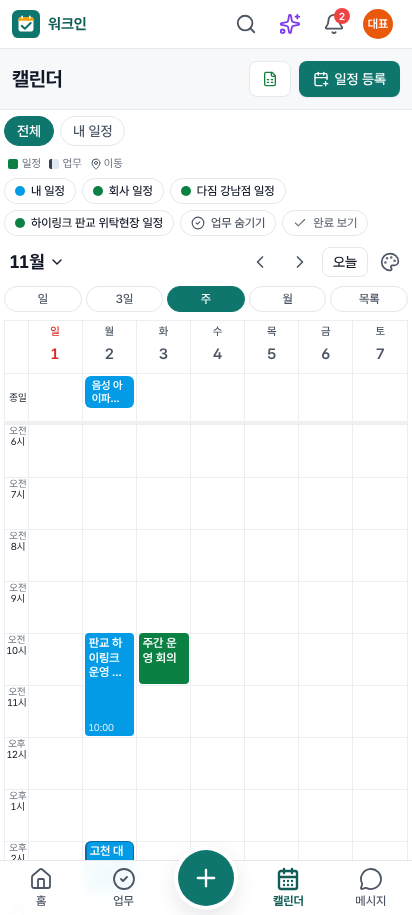
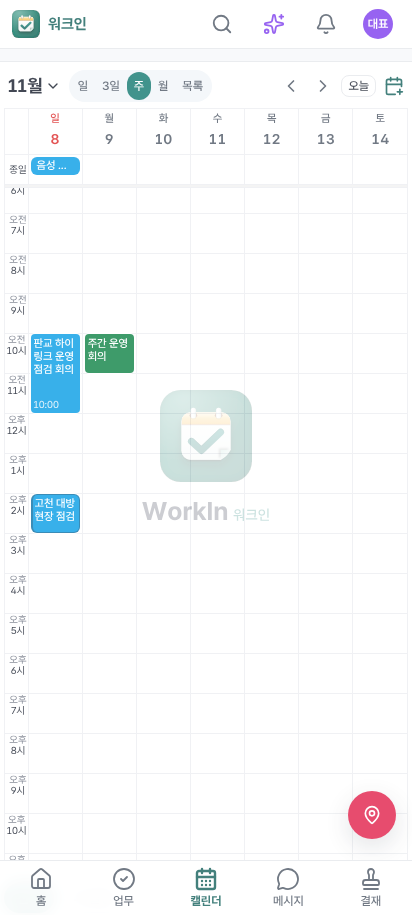
[배포확인요청][로컬요청] 148차: #592 ② 휴대폰 캘린더 주 보기 구글 수준 밀도 + 견적서 공급자 긴 주소 두 줄
- 시간 칸 주 40/3일 48/일 64px → 390×844 한 화면 14.8시간, 블록 11px 중간 굵기·줄 수 블록 높이만큼
- 좁은 블록 앞머리 [태그] 떼고 내용부터(부재 종류 유지, 전체 제목은 title), 종일 줄 휴대폰 기본 켬(2줄 + '+n개' → 그날 목록)
- 미팅 단추 둥근 48px·아래로 밀면 숨김, 휴대폰 머리줄 한 줄(월▾·보기 전환·‹›·오늘·+), 엑셀·색 설정은 칩 줄
- 시간 칸 높이를 달력 자리부터 재서 하단 탭에 가려지지 않게
- 견적서 공급자 주소: '…' 대신 띄어쓰기 자리에서 두 줄(로컬 10/25 15:45)
- 시험: E2E cal592(새)·v1441 갱신, 캘린더 E2E 12/12, API quotes 5/5. 마이그레이션 없음
- #592 ① 가져오기는 대표 취소(#604)로 하지 않음

Claude-Session: https://claude.ai/code/session_016D6QaBbBuSZXAeHKp3DqaZ

diff --git a/src/app/(app)/calendar/page.tsx b/src/app/(app)/calendar/page.tsx
@@ -14,7 +14,7 @@ import dynamic from 'next/dynamic';
 import type { EventDropArg, DatesSetArg, EventClickArg } from '@fullcalendar/core';
 import { api, broadcastRefresh, useApi } from '@/components/client';
 import { useSession } from '@/components/session';
-import { Bell, CalendarPlus, Check, ChevronDown, FileSpreadsheet, ChevronLeft, ChevronRight, CircleCheck, ClipboardList, Clock, ExternalLink, ListChecks, MapPin, Pencil, Plus, Timer, Trash2, Users, Video, X, Palette } from 'lucide-react';
+import { Bell, CalendarPlus, Check, ChevronDown, FileSpreadsheet, ChevronLeft, ChevronRight, CircleCheck, ClipboardList, Clock, ExternalLink, ListChecks, MapPin, Pencil, Plus, Timer, Trash2, Users, Video, X } from 'lucide-react';
 import { Avatar, AvatarStack, avatarColor, initials, Button, DueChip, ErrorBox, Field, Modal, StatusBadge, cx, fmtDateTime, fmtTime, fmtTimeRange, inputCls, toast } from '@/components/ui';
 import { TaskDetail } from '@/components/TaskDetail';
 import { useBackClose, useSheetBack } from '@/components/backClose';
@@ -83,8 +83,10 @@ function CalendarPage() {
   const [showDone, setShowDone] = useState<boolean>(() => { try { return localStorage.getItem('wos_cal_done') === '1'; } catch { return false; } });
   useEffect(() => { try { localStorage.setItem('wos_cal_done', showDone ? '1' : '0'); } catch {} }, [showDone]);
   // 대표 10/22 19:47: 일·3일·주(시간 격자)에서 종일·시간 없는 업무 칸이 위를 차지해 오전 일정을 가림 → 기본 숨김, 날짜 머리 아래 '종일 n' 칩(누르면 그날 목록). 이 기기 기억
-  const [showAllDay, setShowAllDay] = useState<boolean>(() => { try { return localStorage.getItem('wos_cal_allday') === '1'; } catch { return false; } });
-  useEffect(() => { try { localStorage.setItem('wos_cal_allday', showAllDay ? '1' : '0'); } catch {} }, [showAllDay]);
+  // #592(대표 10/25 구글 주 보기 대조): 휴대폰은 종일 줄 기본 켬 — 하루 2개 + '+n개'(누르면 그날 목록)라 위를 크게 차지하지 않음. 휴대폰은 새 기억 키
+  const allDayKey = typeof window !== 'undefined' && window.innerWidth < 640 ? 'wos_cal_allday_m' : 'wos_cal_allday';
+  const [showAllDay, setShowAllDay] = useState<boolean>(() => { try { const v = localStorage.getItem(allDayKey); return v === null ? allDayKey === 'wos_cal_allday_m' : v === '1'; } catch { return allDayKey === 'wos_cal_allday_m'; } });
+  useEffect(() => { try { localStorage.setItem(allDayKey, showAllDay ? '1' : '0'); } catch {} }, [showAllDay, allDayKey]);
   const [allDaySheet, setAllDaySheet] = useState<string | null>(null);
   useBackClose(!!allDaySheet, () => setAllDaySheet(null)); // #242 2단계: 뒤로가기 = 종일 목록만 닫힘(캘린더 그대로)
   const [sidePanel, setSidePanel] = useState<boolean>(() => { try { const v = localStorage.getItem('wos_cal_unscheduled'); return v === null ? typeof window !== 'undefined' && window.innerWidth >= 1440 : v === '1'; } catch { return false; } });
@@ -169,11 +171,26 @@ function CalendarPage() {
   const calBox = useRef<HTMLDivElement>(null);
   const [calH, setCalH] = useState(640);
   useEffect(() => {
-    const fit = () => { const top = calBox.current?.getBoundingClientRect().top ?? 160; setCalH(Math.max(420, Math.round(window.innerHeight - Math.max(0, top) - (window.innerWidth < 1024 ? 76 : 24)))); };
+    // #592: 위치는 머리줄 아래 달력 자리(swipeWrap)부터 — 예전엔 머리줄 높이만큼 아래 탭 뒤로 밀려 시간 칸 끝이 가려졌음. 아래는 하단 탭 실제 높이
+    const fit = () => { const top = (swipeWrap.current ?? calBox.current)?.getBoundingClientRect().top ?? 160; const nav = window.innerWidth < 1024 ? (document.querySelector('nav[aria-label="하단 메뉴"]')?.getBoundingClientRect().height || 56) + 2 : 24;
+      setCalH(Math.max(420, Math.round(window.innerHeight - Math.max(0, top) - nav))); };
     fit(); window.addEventListener('resize', fit); return () => window.removeEventListener('resize', fit);
   }, []);
   const firstScroll = () => { const n = new Date(); const td = seoulDate(n); const inView = range && seoulDate(range.from) <= td && td < seoulDate(range.to);
     const h = inView ? Math.max(0, Number(seoulTime(n).slice(0, 2)) - 1) : 7; return `${String(h).padStart(2, '0')}:00:00`; };
+  // #592: 휴대폰 미팅 단추는 시간 칸(또는 화면)을 아래로 밀면 숨고 위로 올리면 다시 — 칸을 가리지 않게
+  const [fabHidden, setFabHidden] = useState(false);
+  useEffect(() => {
+    const last = new WeakMap<EventTarget, number>();
+    const onScroll = (e: Event) => {
+      const t = e.target, y = t === document ? window.scrollY : (t as HTMLElement | null)?.scrollTop;
+      if (!t || typeof y !== 'number') return;
+      const prev = last.get(t) ?? y; last.set(t, y);
+      if (Math.abs(y - prev) >= 4) setFabHidden(y > prev);
+    };
+    document.addEventListener('scroll', onScroll, { capture: true, passive: true });
+    return () => document.removeEventListener('scroll', onScroll, { capture: true });
+  }, []);
   function openMeeting() { const v = calRef.current?.getApi().getDate(); const d = v ? seoulDate(v) : seoulDate(new Date()); const h = nextHour(); setEditor({ draft: { date: d, start: h.start, end: h.end, title: '미팅 · ', meeting: true } }); }
   useBackClose(!!preview, () => setPreview(null));
 
@@ -242,6 +259,8 @@ function CalendarPage() {
     }
     return m;
   }, [fcEvents]);
+  // #592: 휴대폰은 보이는 기간에 종일 항목이 없으면 종일 줄을 감춤(빈 줄이 시간 칸을 가리지 않게)
+  const rangeHasAllDay = !!range && [...allDayByDate.keys()].some((d) => d >= seoulDate(range.from) && d < seoulDate(range.to));
   const openAllDayItem = (e: any) => {
     const p = e.extendedProps; setAllDaySheet(null);
     if (p.type === 'space') router.push(p.item.href);
@@ -407,13 +426,15 @@ function CalendarPage() {
             <button onClick={() => setShowAllDay(!showAllDay)} aria-pressed={showAllDay} data-testid="cal-show-allday" title="일·3일·주 보기 위쪽에 종일·시간 없는 업무 칸 보이기" className={cx('hit inline-flex items-center gap-1.5 rounded-full border px-2.5 py-1 font-medium', showAllDay ? 'border-accent-400 text-accent-700' : 'border-line text-ink-3')}>종일 칸</button>
             <button onClick={() => setShowDone(!showDone)} aria-pressed={showDone} data-testid="cal-show-done" className={cx('hit inline-flex items-center gap-1.5 rounded-full border px-2.5 py-1 font-medium', showDone ? 'border-green-400 text-green-700' : 'border-line text-ink-3')}><Check className="size-3.5" />완료 보기</button>
 
-            <button onClick={() => setColorDlg(true)} className="hidden items-center gap-1 hit rounded-full border border-line px-2.5 py-1 font-medium text-ink-2 sm:inline-flex" aria-label="캘린더 색 설정"><span className="size-2.5 rounded-full" style={{ background: calColors.personal }} /><span className="size-2.5 rounded-full" style={{ background: calColors.company }} />색</button>
+            {range && <a href={`/api/export/calendar?start=${seoulDate(range.from)}&end=${addDays(seoulDate(range.to), -1)}${who === 'mine' ? `&who=${user.id}` : Array.isArray(who) ? `&who=${who.join(',')}` : ''}`}
+              className="inline-flex items-center gap-1 hit rounded-full border border-line px-2.5 py-1 font-medium text-ink-2 sm:hidden" data-testid="cal-export-mobile"><FileSpreadsheet className="size-3.5 text-green-700" />엑셀</a>}{/* #592 휴대폰: 제목 줄을 숨겨 엑셀은 칩 줄로 */}
+            <button onClick={() => setColorDlg(true)} className="inline-flex items-center gap-1 hit rounded-full border border-line px-2.5 py-1 font-medium text-ink-2" aria-label="캘린더 색 설정" data-testid="cal-colors"><span className="size-2.5 rounded-full" style={{ background: calColors.personal }} /><span className="size-2.5 rounded-full" style={{ background: calColors.company }} />색</button>
           </div>
   );
 
   return (
-    <div className="space-y-3">
-      <div className="flex flex-wrap items-center justify-between gap-2">
+    <div className="-mt-3 space-y-3 sm:mt-0">{/* #592 휴대폰: 숨긴 제목 줄 몫의 위 간격(12px)을 되돌림 */}
+      <div className="hidden flex-wrap items-center justify-between gap-2 sm:flex">{/* #592 휴대폰은 숨김(머리줄 한 줄에 + 일정 등록, 미팅은 오른쪽 아래 단추) */}
         <h1 className="text-xl font-bold tracking-tight">캘린더</h1>
         <div className="flex items-center gap-2">
           <Button variant="secondary" className="hidden lg:inline-flex" onClick={() => setSidePanel(!sidePanel)} aria-pressed={sidePanel}><ListChecks />미배정 업무</Button>
@@ -495,26 +516,27 @@ function CalendarPage() {
           {/* 대표 검수 10/20: 휴대폰은 내 일정/다른 사람 전환을 화면 아래(하단 탭 바로 위)로 — 위는 날짜·일정만 */}
           {!mobile && peopleFilter}
           {!mobile && calChips}
-          {/* 휴대폰 머리줄 (Google 형): "10월 ▾"(누르면 월 달력) · ‹ › · 오늘, 아래 보기 전환 */}
-          <div className="mb-2 sm:hidden" data-testid="cal-mobile-head">
+          {/* 휴대폰 머리줄 (Google 형): "10월 ▾"(누르면 월 달력) · 보기 전환 · ‹ › · 오늘 · 일정 등록 — #592 한 줄로(시간 칸을 한 화면에 더 많이). 색 설정은 아래 칩 줄 */}
+          <div className="mb-1 sm:hidden" data-testid="cal-mobile-head">
+            <h1 className="sr-only">캘린더</h1>
             <div className="flex items-center gap-1">
-              <button type="button" onClick={() => setMonthPicker((v) => !v)} aria-expanded={monthPicker} className="inline-flex items-center gap-1 rounded-input px-1.5 py-1 text-lg font-bold" data-testid="month-toggle">
+              <button type="button" onClick={() => setMonthPicker((v) => !v)} aria-expanded={monthPicker} className="inline-flex shrink-0 items-center gap-0.5 rounded-input px-1 py-1 text-lg font-bold" data-testid="month-toggle">
                 {range ? `${Number(seoulDate(range.start).slice(5, 7))}월` : ''}<ChevronDown className={cx('size-4 transition-transform', monthPicker && 'rotate-180')} />
               </button>
+              <div className="flex min-w-0 rounded-full bg-slate-100 p-0.5 text-[12px]" role="group" aria-label="보기">
+                {([['timeGridDay', '일'], ['timeGrid3', '3일'], ['timeGridWeek', '주'], ['dayGridMonth', '월'], ['listWeek', '목록']] as const).map(([v, l]) => (
+                  <button key={v} type="button" onClick={() => calRef.current?.getApi().changeView(v)} aria-pressed={range?.view === v}
+                    className={cx('h-7 whitespace-nowrap rounded-full px-[7px] font-medium', range?.view === v ? 'bg-brand-600 text-white' : 'text-ink-2')}>{l}</button>
+                ))}
+              </div>
               <span className="flex-1" />
-              <button type="button" onClick={() => calRef.current?.getApi().prev()} className="rounded-full p-2 text-ink-2 active:bg-slate-100" aria-label="이전"><ChevronLeft className="size-5" /></button>
-              <button type="button" onClick={() => calRef.current?.getApi().next()} className="rounded-full p-2 text-ink-2 active:bg-slate-100" aria-label="다음"><ChevronRight className="size-5" /></button>
-              <button type="button" onClick={() => calRef.current?.getApi().today()} className="rounded-input border border-line px-2.5 py-1 text-sm font-medium">오늘</button>
-              {/* V14 41번: 휴대폰은 "●● 색" 칩 대신 머리줄 아이콘(칩 줄이 잘려 보이던 문제) */}
-              <button type="button" onClick={() => setColorDlg(true)} className="rounded-full p-2 text-ink-2 active:bg-slate-100" aria-label="캘린더 색 설정" data-testid="cal-colors-mobile"><Palette className="size-5" /></button>
+              <button type="button" onClick={() => calRef.current?.getApi().prev()} className="shrink-0 rounded-full p-1 text-ink-2 active:bg-slate-100" aria-label="이전"><ChevronLeft className="size-5" /></button>
+              <button type="button" onClick={() => calRef.current?.getApi().next()} className="shrink-0 rounded-full p-1 text-ink-2 active:bg-slate-100" aria-label="다음"><ChevronRight className="size-5" /></button>
+              <button type="button" onClick={() => calRef.current?.getApi().today()} className="shrink-0 rounded-input border border-line px-1.5 py-0.5 text-xs font-medium">오늘</button>
+              <button type="button" onClick={() => { const v = calRef.current?.getApi().getDate(); const d = v ? seoulDate(v) : seoulDate(new Date()); const h = nextHour(); setEditor({ draft: { date: d, start: h.start, end: h.end } }); }}
+                className="shrink-0 rounded-full p-1 text-brand-700 active:bg-slate-100" aria-label="일정 등록" data-testid="cal-new-mobile"><CalendarPlus className="size-5" /></button>
             </div>
             {monthPicker && <div className="mt-1 rounded-card border border-line p-2"><MiniMonth anchor={visibleStart} holidays={holidaySet} onPick={(d) => { goto(d); setMonthPicker(false); }} /></div>}
-            <div className="mt-1.5 flex gap-1 text-xs" role="group" aria-label="보기">
-              {([['timeGridDay', '일'], ['timeGrid3', '3일'], ['timeGridWeek', '주'], ['dayGridMonth', '월'], ['listWeek', '목록']] as const).map(([v, l]) => (
-                <button key={v} type="button" onClick={() => calRef.current?.getApi().changeView(v)} aria-pressed={range?.view === v}
-                  className={cx('flex-1 rounded-full border py-1 font-medium', range?.view === v ? 'border-brand-600 bg-brand-600 text-white' : 'border-line text-ink-2')}>{l}</button>
-              ))}
-            </div>
           </div>
           <div ref={swipeWrap} className={cx('overflow-x-clip', mobile && 'cal-phone', mobile && range?.view && `cal-v-${range.view}`)} data-testid="cal-swipe">
           <FullCalendar
@@ -524,7 +546,7 @@ function CalendarPage() {
             initialView={initView}
             initialDate={/^\d{4}-\d{2}-\d{2}$/.test(sp.get('date') ?? '') ? sp.get('date')! : undefined}
             headerToolbar={mobile ? false : { left: 'today prev,next title', center: '', right: 'timeGridDay,timeGridWeek,dayGridMonth,listWeek' }}
-            views={{ timeGrid3: { type: 'timeGrid', duration: { days: 3 }, buttonText: '3일' }, dayGridMonth: { dayMaxEvents: mobile ? 4 : 6 } }} eventDisplay="block" // 대표 지적(10/19): 월 보기도 시각 있는 일정을 색 배경 + 흰 글자로(점 모양 대신 블록 — 보기별 옵션은 먹지 않아 전체에)
+            views={{ timeGrid3: { type: 'timeGrid', duration: { days: 3 }, buttonText: '3일' }, dayGridMonth: { dayMaxEvents: mobile ? 4 : 6 }, timeGrid: { dayMaxEvents: false, dayMaxEventRows: 2 } }} eventDisplay="block" // 대표 지적(10/19): 월 보기도 시각 있는 일정을 색 배경 + 흰 글자로(점 모양 대신 블록 — 보기별 옵션은 먹지 않아 전체에)
             // Google 형 날짜 머리: 요일 한 줄 + 날짜 숫자(오늘은 동그라미), 시간 칸 글자 작게
             dayHeaderContent={(a) => { if (!a.view.type.startsWith('timeGrid')) return a.text; // 월·목록 보기는 기본 요일 글자(undefined 를 돌려주면 빈칸 — 로컬 검수 10/17)
               // 날짜는 서울 기준으로 읽는다(a.date 는 서울 0시 = UTC 전날 15시)
@@ -533,7 +555,7 @@ function CalendarPage() {
                 <span className="flex flex-col items-center leading-tight">
                   <span className="flex flex-col items-center" data-day-head={ds}>
                     <span className="text-[11px] font-medium">{'일월화수목금토'[dd.getUTCDay()]}</span>
-                    <span className={cx('mt-0.5 flex size-7 items-center justify-center rounded-full text-[15px] font-semibold tabular-nums', ds === seoulDate(new Date()) && 'bg-accent-600 text-white')}>{dd.getUTCDate()}</span>
+                    <span className={cx('mt-0.5 flex items-center justify-center rounded-full font-semibold tabular-nums', mobile ? 'size-6 text-[14px]' : 'size-7 text-[15px]', ds === seoulDate(new Date()) && 'bg-accent-600 text-white')}>{dd.getUTCDate()}</span>
                   </span>
                   {!showAllDay && (allDayByDate.get(ds)?.length ?? 0) > 0 && (
                     <button type="button" onClick={(ev) => { ev.stopPropagation(); ev.preventDefault(); setAllDaySheet(ds); }} data-testid="allday-chip" data-day={ds}
@@ -545,9 +567,11 @@ function CalendarPage() {
             // V14 41번: 휴대폰 축은 "오전/오후 n시"를 두 줄로 좁게(날짜 칸을 넓게)
             slotLabelContent={mobile ? (a) => { const h = Number(seoulTime(a.date).slice(0, 2)); return <span className="block text-center text-[10px] leading-[1.1]" data-axis-label><span className="block text-ink-3">{h < 12 ? '오전' : '오후'}</span>{h % 12 || 12}시</span>; } : undefined}
             buttonText={{ today: '오늘', month: '월', week: '주', day: '일', list: '일정목록' }}
-            allDaySlot={showAllDay} allDayText="종일" noEventsText="일정이 없습니다" slotMinTime={slotMin} scrollTime={firstScroll()} scrollTimeReset={false}
+            allDaySlot={showAllDay && (!mobile || rangeHasAllDay)} allDayText="종일" noEventsText="일정이 없습니다" slotMinTime={slotMin} scrollTime={firstScroll()} scrollTimeReset={false}
             // 대표 지적(10/19 ③): 월 보기는 칸 안에 최대한(PC 6·휴대폰 4줄), 넘치면 '+N개' — 높이 자동이라 true(칸 높이 맞춤)는 제한이 걸리지 않음
             dayMaxEvents={4} moreLinkContent={(a) => `+${a.num}개`}
+            // #592: 시간 격자 종일 줄은 하루 2개까지 — '+n개' 는 그날 종일 목록(휴대폰 시트), 월 보기는 그대로 풍선. 끝에 참 값을 돌려주면 FullCalendar 는 아무것도 하지 않음
+            moreLinkClick={(a) => { if (!a.view.type.startsWith('timeGrid')) return 'popover'; setAllDaySheet(seoulDate(a.date)); return true as never; }}
             // 대표 지적(10/19 ① d): 겹친 일정·업무는 나란히(겹쳐 그리면 위에 깔린 항목이 눌려 다른 상세가 열림)
             slotDuration="01:00:00" snapDuration="01:00:00" slotEventOverlap={false} eventMinHeight={mobile ? 34 : 28} eventShortHeight={30}
             editable selectable selectMirror droppable longPressDelay={350}
@@ -575,21 +599,26 @@ function CalendarPage() {
               const depart = loc && timed && arg.event.start ? `${hm(new Date(+arg.event.start - 40 * 60000))} 출발 권장` : '';
               const narrow = mobile && (arg.view.type === 'timeGridWeek' || arg.view.type === 'timeGrid3'); // V14 41번: 휴대폰 주·3일
               const when = loc && !narrow && !month ? [when0, loc, depart].filter(Boolean).join(' · ') : when0;
-              const label = `${narrow ? '' : p.who ?? ''}${arg.event.title}`;
+              const label = narrow ? narrowTitle(arg.event.title) : `${p.who ?? ''}${arg.event.title}`; // #592: 좁은 블록은 앞머리 [태그] 떼고 내용부터(전체 제목은 title)
+              const full = `${p.who ?? ''}${arg.event.title}`;
               // 대표 지적(10/19 ③): 사람 약칭 대신 색 점(설정) — 좁은 칸에서도 보임
               const dot = p.whoDot ? <span className="mr-1 inline-block size-2 shrink-0 rounded-full align-[1px] ring-1 ring-white/90" style={{ background: p.whoDot }} title={p.whoName} data-who-dot /> : null;
-              const attrs = { ...(isTask ? { 'data-task-item': t.id, title: label } : { 'data-ev-block': '1', title: label, ...(lt ? { 'data-linked-task': lt.id } : {}) }), 'data-done': done ? '1' : undefined, ...(loc ? { 'data-travel': '1' } : {}) };
-              // V14 41번(Google 앱 주 보기): 휴대폰 주·3일 — 종일 칩은 2줄까지 줄바꿈 11px, 시간 블록은 제목만 블록 높이만큼 줄바꿈(단어 중간 허용), 시각은 1시간 이상 블록만
+              const attrs = { ...(isTask ? { 'data-task-item': t.id, title: full } : { 'data-ev-block': '1', title: full, ...(lt ? { 'data-linked-task': lt.id } : {}) }), 'data-done': done ? '1' : undefined, ...(loc ? { 'data-travel': '1' } : {}) };
+              // V14 41번(Google 앱 주 보기): 휴대폰 주·3일 — 시간 블록은 제목만 블록 높이만큼 줄바꿈(단어 중간 허용), 시각은 1시간 30분 이상 블록만
+              // #592(대표 10/25 구글 대조): 종일 칩은 한 줄(넘치면 …), 블록 글자 11px·중간 굵기, 줄 수 = 블록 높이(주 40·3일 48px/시간)에 들어가는 만큼(1시간 = 주 2줄·3일 3줄)
               if (narrow && arg.event.allDay) return (
-                <div className="line-clamp-2 min-w-0 whitespace-normal break-all px-0.5 text-[11px] font-semibold leading-[1.2]" data-allday-chip="1" {...attrs}>{dot}{icon}{label}</div>
+                <div className="min-w-0 truncate px-0.5 text-[11px] font-medium leading-[1.3]" data-allday-chip="1" {...attrs}>{dot}{icon}{label}</div>
               );
-              if (narrow && timed) return (
-                // V36 6: 제목 먼저(12px·두 줄, 긴 블록은 세 줄), 시각은 1시간 30분 이상 블록에서만 아래 작게 — 짧은 블록에서 시각이 제목을 가리지 않게
-                <div className="flex h-full min-w-0 flex-col overflow-hidden text-[12px] leading-[1.2]" data-narrow-block="1" {...attrs}>
-                  <span className={cx('min-h-0 overflow-hidden whitespace-normal break-all font-semibold', mins >= 90 ? 'line-clamp-3' : 'line-clamp-2', done && 'line-through opacity-80')}>{dot}{icon}{label}</span>
-                  {mins >= 90 && when && <span className="mt-auto shrink-0 truncate text-[10px] font-normal opacity-85" data-block-time>{when}</span>}
-                </div>
-              );
+              if (narrow && timed) {
+                const showTime = mins >= 90 && !!when;
+                const lines = Math.max(1, Math.floor((Math.max(34, (mins / 60) * (arg.view.type === 'timeGridWeek' ? 40 : 48)) - 4 - (showTime ? 12 : 0)) / 13.2));
+                return (
+                  <div className="flex h-full min-w-0 flex-col overflow-hidden text-[11px] leading-[1.2]" data-narrow-block="1" {...attrs}>
+                    <span className={cx('line-clamp-2 min-h-0 overflow-hidden whitespace-normal break-all font-medium', done && 'line-through opacity-80')} style={{ WebkitLineClamp: lines }}>{dot}{icon}{label}</span>
+                    {showTime && <span className="mt-auto shrink-0 truncate text-[10px] font-normal opacity-85" data-block-time>{when}</span>}
+                  </div>
+                );
+              }
               // V36 6: 휴대폰 일 보기 짧은 블록 — 시각은 제목 옆 작게(아래 줄로 내려 제목을 가리지 않음)
               if (mobile && timed && mins < 90) return (
                 <div className="line-clamp-2 min-w-0 overflow-hidden whitespace-normal break-all px-[3px] text-[12px] leading-[1.2]" {...attrs}>
@@ -644,8 +673,9 @@ function CalendarPage() {
       </div>
       <p className="text-xs text-ink-2">빈 칸을 누르거나 끌면 빠른 입력, 업무는 체크로 완료합니다. 오른쪽 “미배정 업무”를 시간 칸으로 끌어 놓으면 업무 시간이 잡힙니다. 단축키 D·W·M·A·T·C</p>
       <ScopeDialog />
-      {/* 휴대폰: 캘린더 오른쪽 아래 미팅 일정 버튼(하단 탭 위) */}
-      <button type="button" onClick={() => openMeeting()} className="fixed bottom-[calc(var(--sab)+76px)] right-4 z-30 inline-flex h-12 items-center gap-1.5 rounded-full bg-rose-600 px-4 text-sm font-semibold text-white shadow-pop lg:hidden" data-testid="cal-meeting-fab"><MapPin className="size-5" />미팅</button>
+      {/* 휴대폰: 캘린더 오른쪽 아래 미팅 일정 단추(하단 탭 위) — #592 긴 알약 대신 둥근 48px 아이콘(칸을 덜 가림), 아래로 밀면 숨김 */}
+      <button type="button" onClick={() => openMeeting()} aria-label="미팅 일정" title="미팅 일정" data-hidden={fabHidden ? '1' : '0'}
+        className={cx('fixed bottom-[calc(var(--sab)+76px)] right-4 z-30 inline-flex size-12 items-center justify-center rounded-full bg-rose-600 text-white shadow-pop transition-[opacity,transform] duration-200 lg:hidden', fabHidden && 'pointer-events-none translate-y-3 opacity-0')} data-testid="cal-meeting-fab"><MapPin className="size-5" /></button>
       {colorDlg && <CalColorsDialog onClose={() => setColorDlg(false)} />}
       {/* 대표 결정(10/16): 캘린더에서는 일정만 등록 — 업무는 업무 화면·홈 [+업무]. 일정과 함께 할 일이 필요하면 "업무 리스트에도 추가" */}
       {allDaySheet && (
@@ -1127,6 +1157,14 @@ function saveError(er: any): string {
 
 /** 업무 시간 블록 제목의 옛 접두어 정리 ("[업무] …") — 화면에서는 아이콘으로 구분 */
 function cleanTitle(t: string) { return t.replace(/^(\[(업무|업무 시간)\]\s*)+/, ''); }
+// #592(대표 10/25 구글 주 보기 대조): 좁은 블록(휴대폰 주·3일)은 앞머리 [다짐 문의]·[영업]·[시험] 같은 태그를 떼고 내용부터 — 태그 뜻은 색·왼쪽 선으로.
+// 부재 종류([연차]·[출장]·[휴가] 등)는 남긴다. 태그뿐인 제목은 그대로
+const KEEP_TAG = /^(연차|반차|반반차|외근|출장|휴가|병가|재택|부재|공가|교육|훈련|경조사?)$/;
+function narrowTitle(t: string) {
+  let s = t, keep = '';
+  for (let m = /^\s*\[([^\]]{1,20})\]\s*/.exec(s); m; m = /^\s*\[([^\]]{1,20})\]\s*/.exec(s)) { if (KEEP_TAG.test(m[1].trim())) keep += `[${m[1].trim()}] `; s = s.slice(m[0].length); }
+  return s.trim() ? keep + s.trim() : t;
+}
 
 /** 일정 미리보기: 시간·장소·참석자·연결 업무, 업무 시간 블록이면 그 업무의 상태·완료 */
 function EventPreview({ ev, x, y, calendarName, onClose, onEdit, onChanged, onOpenTask }: { ev: any; x: number; y: number; calendarName?: string; onClose: () => void; onEdit: () => void; onChanged: () => void; onOpenTask: (id: string) => void }) {

diff --git a/src/lib/quotes.ts b/src/lib/quotes.ts
@@ -10,6 +10,7 @@ import { tenantOf, type SessionUser } from './types';
 import { companyProfiles, type CompanyProfile } from './companyProfiles';
 import { todaySeoul } from './time';
 import { pdfFonts as fonts } from './pdfFonts';
+import { wrapText } from './textFit';
 
 export type QuoteItem = { name: string; spec?: string; qty: number; unitPrice: number; amount: number };
 export type QuoteLayout = { title?: string; columns: { key: 'name' | 'spec' | 'qty' | 'unitPrice' | 'amount'; label: string; width: number }[]; terms: string[]; footer?: string; accent?: string; showStamp?: boolean };
@@ -115,11 +116,15 @@ export async function renderQuotePdf(profile: CompanyProfile, layout0: Partial<Q
     for (const [k, v] of L) { text(k, M, ly - fs, fs, { color: [0.4, 0.42, 0.45] }); text(v, M + 50, ly - fs, fs, { maxW: W / 2 - M - 60 }); ly -= lineH; }
     const R: [string, string][] = [['상호', profile.name], ...(profile.ceo ? [['대표', profile.ceo] as [string, string]] : []), ...(profile.biz_no ? [['사업자번호', profile.biz_no] as [string, string]] : []),
       ...(profile.address ? [['주소', profile.address] as [string, string]] : []), ...(profile.phone ? [['전화', profile.phone] as [string, string]] : []), ...(profile.email ? [['이메일', profile.email] as [string, string]] : [])];
-    page.drawRectangle({ x: colR - 6, y: top - R.length * lineH - 6, width: W - M - colR + 6, height: R.length * lineH + 10, borderColor: rgb(...accent), borderWidth: 0.8 });
+    // 로컬 10/25 15:45: 긴 주소는 '…'로 자르지 않고 두 줄까지(셋째 줄부터는 둘째 줄 끝 '…') — 상자 높이도 줄 수만큼
+    const RW = W - M - colR - 62;
+    const RL = R.map(([k, v]) => { const ls = k === '주소' ? wrapText(v, RW, (x) => reg.widthOfTextAtSize(x, fs)) : [v]; /* 띄어쓰기 자리에서 줄바꿈(textFit) */ return [k, ls.length > 2 ? [ls[0], ls.slice(1).join('')] : ls] as const; });
+    const rn = RL.reduce((n, [, ls]) => n + ls.length, 0);
+    page.drawRectangle({ x: colR - 6, y: top - rn * lineH - 6, width: W - M - colR + 6, height: rn * lineH + 10, borderColor: rgb(...accent), borderWidth: 0.8 });
     page.drawRectangle({ x: colR - 2, y: top + 1, width: bold.widthOfTextAtSize('공급자', fs - 1) + 4, height: fs, color: rgb(1, 1, 1) }); // 147차: 이름표 뒤 테두리 선을 지움(글자가 선에 겹치지 않게)
     text('공급자', colR, top + 2, fs - 1, { bold: true, color: accent });
     let ry = top;
-    for (const [k, v] of R) { text(k, colR, ry - fs, fs, { color: [0.4, 0.42, 0.45] }); text(v, colR + 58, ry - fs, fs, { maxW: W - M - colR - 62 }); ry -= lineH; }
+    for (const [k, ls] of RL) { text(k, colR, ry - fs, fs, { color: [0.4, 0.42, 0.45] }); ls.forEach((v, n) => text(v, colR + 58, ry - fs - n * lineH, fs, { maxW: RW })); ry -= ls.length * lineH; }
     y = Math.min(ly, ry) - 16;
     // 합계 한 줄
     text(`합계 금액: 일금 ${koreanNumber(q.total)}원정 (₩ ${won(q.total)}) · 부가세 포함`, M, y - fs - 1, fs + 1.5, { bold: true });

diff --git a/src/app/globals.css b/src/app/globals.css
@@ -128,13 +128,17 @@ select { min-height: 2.5rem; line-height: 1.5; padding-top: 0.25rem; padding-bot
 .fc .fc-daygrid-event .fc-event-main { overflow: hidden; }
 @media (max-width: 640px) { .fc .fc-timegrid-event { padding: 1px 0; } }
 
-/* V14 41번: 휴대폰 주·3일 보기 가독성(Google 캘린더 앱 레퍼런스) — 종일 칩 2줄 줄바꿈, 블록 제목만·줄바꿈, 업무 선 2px, 칸 높이 주 52/3일 60/일 64px, 좁은 시간 축 */
-.cal-phone .fc .fc-timegrid-slot { height: 52px; }
-.cal-phone.cal-v-timeGrid3 .fc .fc-timegrid-slot { height: 60px; }
+/* V14 41번: 휴대폰 주·3일 보기 가독성(Google 캘린더 앱 레퍼런스) — 블록 제목만·줄바꿈, 업무 선 2px, 좁은 시간 축
+   #592(대표 10/25 구글 주 보기 대조): 칸 높이 주 40/3일 48/일 64px(주 보기 한 화면 약 15시간), 종일 칩은 한 줄, 블록 안쪽 여백 2px */
+.cal-phone .fc .fc-timegrid-slot { height: 40px; }
+.cal-phone.cal-v-timeGrid3 .fc .fc-timegrid-slot { height: 48px; }
 .cal-phone.cal-v-timeGridDay .fc .fc-timegrid-slot { height: 64px; }
-.cal-phone .fc .fc-daygrid-event { white-space: normal; padding: 2px 4px; margin-top: 1px; }
+.cal-phone .fc .fc-daygrid-event { white-space: normal; padding: 1px 3px; margin-top: 1px; }
 .cal-phone .fc .fc-daygrid-event .fc-event-main, .cal-phone .fc .fc-daygrid-event .fc-event-main-frame { white-space: normal; min-width: 0; }
-.cal-phone .fc .fc-timegrid-event { padding: 2px 3px; }
+.cal-phone .fc .fc-timegrid .fc-daygrid-more-link { font-size: 11px; font-weight: 500; }
+.cal-phone .fc .fc-timegrid .fc-daygrid-body-natural .fc-daygrid-day-events { margin-bottom: 2px; } /* 종일 줄 아래 빈칸(1em) 줄임 */
+.cal-phone .fc .fc-col-header-cell-cushion:has([data-day-head]) { padding: 2px 0; }
+.cal-phone .fc .fc-timegrid-event { padding: 2px; }
 .cal-phone .fc .fc-event.task-item, .cal-phone .fc .fc-event.has-task { border-left-width: 2px !important; }
 .cal-phone .fc .fc-timegrid-slot-label-cushion { padding: 0 1px; }
 .cal-phone .fc .fc-timegrid-axis-cushion { font-size: 10px; padding: 0 1px; }

diff --git a/TEST_REPORT.md b/TEST_REPORT.md
@@ -1,7 +1,9 @@
 # 시험 보고서
 
 최종 실행: 2026-10-13 (UTC) · 클라우드 개발 환경 (Node 22, PostgreSQL 16, Chromium 141)
-요약 (2026-10-25 147차: #263(로컬 10/25 14:40 긴급) PDF 한글 깨짐 — 업무 첨부 [고치기] PDF·전자계약 1차·2차 완료본(본문·서명자가 채운 글자/날짜 칸·감사 추적 쪽)·견적서 PDF 가 모두 같은 원인: 한글 글꼴(NotoSansKR .otf, CFF·CID 방식)을 '쓴 글자만' 담는 부분 글꼴로 넣을 때 PDF 라이브러리(fontkit)가 글꼴 파일을 깨뜨림 → 크롬(PDFium)에선 한글이 안 보이고 pdf.js 는 자모만, poppler 는 '글꼴 파일이 잘못됨'. 글자 추출(복사·검색)은 정상이라 지금까지 시험(좌표·추출)이 못 잡았음. 고침: 같은 글꼴을 TrueType(.ttf)으로 바꾼 자산을 PDF 3곳(업무 첨부 써넣기·전자계약·견적서)이 함께 씀(src/lib/pdfFonts.ts, 만드는 법 scripts/fonts/otf2ttf.py) — 글자 모양·폭·배치는 원본 그대로(글리프 24,964개 중 24,939개 1/1000 이내, 나머지 18개는 일본 가나·기호), 글리프를 4바이트로 맞춰 fontkit 부분 글꼴의 짧은 위치표 어긋남도 막음. 마케팅 그림·영상은 .otf 그대로. 견적서 '공급자' 이름표가 상자 테두리 선과 겹치던 것(그동안 글자가 안 보여 드러나지 않음)은 이름표 뒤만 선을 지움. 마이그레이션 없음(200 그대로).
+요약 (2026-10-25 148차: #592(대표 10/25 14:40 "휴대폰 구글 캘린더처럼 한눈에", 명세 docs/handoff/CAL_WEEK_GOOGLE_PARITY_2026-10-25.md §2) ② 주 보기 밀도 — 휴대폰(390~412px) 시간 칸 높이 주 40px(3일 48·일 64, 예전 52/60/64) → 390×844 한 화면 14.8시간(07~21시). 블록 글자 11px·중간 굵기·안쪽 여백 2px, 줄 수는 블록 높이에 맞게(1시간 = 주 2줄·3일 3줄, 1시간 30분 이상이면 아래에 시각). 좁은 블록(주·3일)은 앞머리 대괄호 태그([다짐 문의]·[영업]·[시험] 등)를 떼고 내용부터 — 전체 제목은 title(길게 누르기)에, [연차]·[출장]·[휴가] 같은 부재 종류는 유지, 일 보기·PC 는 그대로. 종일 줄은 휴대폰 기본 켬(새 기억 키): 하루 2줄까지 + 넘치면 '+n개'(누르면 그날 종일 목록 시트), 보이는 기간에 종일 항목이 없으면 줄을 감춤; PC 시간 격자도 2줄 + '+n개'. '📍 미팅' 알약 단추 → 둥근 48px 아이콘, 아래로 밀면 숨고 위로 올리면 다시. 휴대폰 머리줄을 한 줄로(월▾ · 일/3일/주/월/목록 · ‹ › · 오늘 · + 일정 등록) — 제목 줄(캘린더·엑셀·미팅 일정·일정 등록 단추)은 휴대폰에서 숨기고 엑셀·색 설정은 아래 칩 줄로, 날짜 동그라미 24px. 시간 칸 높이를 달력 자리부터 재서(예전엔 머리줄 높이만큼 아래 탭 뒤로 밀려 칸 끝이 가려짐) 하단 탭 바로 위까지. ① 가져오기(구글 11건·중복 정리)는 대표가 취소(#604, 로컬 10/25 16:40) — 만들지 않음. 함께: 로컬 10/25 15:45 견적서 공급자 긴 주소가 '…'로 잘리던 것 → 띄어쓰기 자리에서 두 줄(상자 높이도 줄 수만큼). 마이그레이션 없음(200 그대로).
+시험: E2E 새 단계 #592(390px: 칸 40px·한 화면 14.8시간·블록 11px 중간 굵기 2줄·[다짐 문의] 떼고 내용부터·[연차] 유지·종일 칩 1 + '+2개' → 시트 3건·미팅 단추 48px 둥근·아래로 밀면 숨김/위로 복귀·3일 48·일 64·일 보기 제목 그대로) + V14 41 단계 새 값으로 갱신, 캘린더 E2E 12단계 12/12 통과(V4 캘린더는 앞 단계가 만드는 동료 계정이 있어야 해서 그 단계와 함께 2/2). API quotes 5/5(긴 주소 두 줄 + 한글 그려짐 검사). typecheck·lint·build 통과. 화면 280-cal-week-390.
+확인 못함: 실기기(두 손가락 벌려 칸 높이 조절은 나중) · 412px 는 390px 과 같은 CSS 라 따로 재지 않음 · 대표 구글 일정은 가져오기 취소라 워크인에 직접 넣은 일정만 보임.) · 앞선 요약 (2026-10-25 147차: #263(로컬 10/25 14:40 긴급) PDF 한글 깨짐 — 업무 첨부 [고치기] PDF·전자계약 1차·2차 완료본(본문·서명자가 채운 글자/날짜 칸·감사 추적 쪽)·견적서 PDF 가 모두 같은 원인: 한글 글꼴(NotoSansKR .otf, CFF·CID 방식)을 '쓴 글자만' 담는 부분 글꼴로 넣을 때 PDF 라이브러리(fontkit)가 글꼴 파일을 깨뜨림 → 크롬(PDFium)에선 한글이 안 보이고 pdf.js 는 자모만, poppler 는 '글꼴 파일이 잘못됨'. 글자 추출(복사·검색)은 정상이라 지금까지 시험(좌표·추출)이 못 잡았음. 고침: 같은 글꼴을 TrueType(.ttf)으로 바꾼 자산을 PDF 3곳(업무 첨부 써넣기·전자계약·견적서)이 함께 씀(src/lib/pdfFonts.ts, 만드는 법 scripts/fonts/otf2ttf.py) — 글자 모양·폭·배치는 원본 그대로(글리프 24,964개 중 24,939개 1/1000 이내, 나머지 18개는 일본 가나·기호), 글리프를 4바이트로 맞춰 fontkit 부분 글꼴의 짧은 위치표 어긋남도 막음. 마케팅 그림·영상은 .otf 그대로. 견적서 '공급자' 이름표가 상자 테두리 선과 겹치던 것(그동안 글자가 안 보여 드러나지 않음)은 이름표 뒤만 선을 지움. 마이그레이션 없음(200 그대로).
 시험: 새 검사 tests/pdfCheck.mjs — 저장된 PDF 를 pdf.js 로 다시 읽어 글이 원문과 같은지 + pdf.js 로 실제로 그린 그림에서 한글 줄마다 잉크 양을 원본 글꼴로 그린 양과 비교(정상 0.97~1.03, 깨진 글꼴 0~0.86). 업무 첨부 2개·전자계약 1차(본문·이름·감사 추적)·2차(텍스트·날짜 칸·감사 추적 참여자 이름)·견적서 시험과 E2E #533(저장한 v2 다시 읽기)에 넣음. 고치기 전 빌드(옛 .otf)에서 5개 시험이 '한글이 제대로 그려지지 않은 줄'로 실패하는 것을 먼저 확인 → 고친 빌드에서 19/19 통과. 같은 PDF 5종을 크롬 엔진(PDFium 156)·pdf.js·poppler·MuPDF 로 그려 한글 정상 확인. 회귀 API 224/224(자료실·AI 문서·메일·문자 예약·카드뉴스·보안 등), E2E 3/3(#533 첨부 고치기·전자계약 1차·2차 화면). typecheck·lint·build 통과, 가장 큰 서버 함수 153MB(한도 250MB).
 확인 못함: Adobe Acrobat(클라우드에 없음 — 운영에서 로컬 확인 필요). 이미 만들어진 PDF(10/19~ 견적서, 10/21~ 전자계약 완료본, 10/25~ 업무 첨부 써넣기 버전)는 파일이 깨진 채 저장돼 있어 이번 배포로 저절로 고쳐지지 않음 — 업무 첨부는 v1 에서 다시 써넣기, 견적서·계약 완료본 다시 만들기는 대표 결정 뒤(계약 완료본은 해시가 바뀌므로 기존 파일 보관 + 감사 기록 필요).) · 앞선 요약 (2026-10-25 146차: #258(로컬 10/25 10:25 140차 운영 확인 '고칠 점') 업무 첨부 [고치기] — ① PDF 글자 칸보다 긴 글이 잘리던 것: 예전엔 한 줄로만 찍고 글자를 5pt까지 줄인 뒤에도 칸 폭을 넘으면 뒤를 잘랐음 → 이제 칸 폭에서 줄을 바꾸고(띄어쓰기 자리, 칸보다 긴 낱말은 글자 단위) 칸 높이에 다 들어가는 가장 큰 글자 크기(최대 14pt, 최소 5pt)를 골라 글 전부를 찍음. 한 줄에 들어가는 짧은 글은 예전과 같은 크기·자리. 가장 작은 글자로도 칸에 안 들어가면 편집 화면이 칸을 빨갛게 표시하고 '글이 칸보다 깁니다 — 칸을 키우거나 줄여 주세요'로 저장을 막고, 서버도 같은 경우 400(새 버전 안 만듦). 편집 화면 글자 칸도 같은 식(줄바꿈 → 글자 줄이기)으로 미리 보여 줌. 전자계약 2차의 글자·날짜 칸(서명자가 채운 값)도 같은 식 — 칸보다 긴 값을 자르지 않고 줄바꿈·글자 줄이기(한 줄 값은 예전과 같음). ② 사진 편집기 크기 표시가 한 단계 늦던 것: 화면 캔버스를 그린 뒤의 크기를 읽어서 생긴 일 → 고친 순서(돌리기·자르기)로 바로 계산해 돌리자마자 '100×200 · 고친 단계 1'. 마이그레이션 없음.
 시험: API tests/api/attach-edit.test.mjs 새 시험(긴 글 = 여러 줄·글 전부·칸 폭과 높이 안·글자 5pt 이상 / 작은 칸에 아주 긴 글 = 400·버전 그대로) 포함 attach-edit·contracts·contracts-v2·attach-library 19개 통과. E2E #533 첨부 고치기(사진 돌리면 크기 표시 바로 · PDF 긴 글 줄바꿈·글자 줄임·칸 안에 다 보임 · 아주 긴 글 = 빨간 표시·저장 막기 → 줄이면 저장 v2) + 전자계약 1차·2차 화면 3/3, 화면 269. typecheck·lint·build 통과.

diff --git a/docs/handoff/LOCAL_LOG.md b/docs/handoff/LOCAL_LOG.md
@@ -531,6 +531,7 @@
 - 2026-10-20 [클라우드] [배포확인요청] 마감일 버튼 핫픽스(#122 대표 23:40) + 업무 첨부 [자료실에서 가져오기](#123 대표 23:55, migration 137): 마감일 버튼 높이 32px·달력 아이콘, 선택 창 날짜(넓게)/시각(좁게) 한 줄 두 칸 40px · 업무 상세 자료·첨부 [자료실에서](검색·폴더·공간·여러 개 체크 → 연결, 출처 '자료실', 타임라인 '자료실에서') · 새 업무 폼 '📁 자료실에서 첨부' · 운영실 E2E 예산 ≠ 0원. 대표 화면: 업무 열기 → [자료실에서] → 파일 체크 → [첨부].
 - 2026-10-20 [클라우드] [배포확인요청] 주 도메인 work-in.dev(#117): 앱 appUrl 기본 apex + allowNavigation 두 호스트(다음 앱 빌드부터), 사이트 canonical·OG·sitemap·robots 기본 apex(NEXT_PUBLIC_SITE_URL 우선), 쿠키 호스트 전용·출처 검사·푸시는 두 호스트 모두 정상(NEXT_ACTION 에 근거). APP_URL 은 외부 콘솔 콜백 호스트와 같아야 하니 콘솔 변경 뒤 apex 로. 308 은 새 앱 빌드 배포 뒤 Vercel 에서. + 운영실 예산 [AI 다시 계획] 버튼을 승인 대기 상태에서도 노출(로컬 00:10) — 눌러서 금액 > 0 확인 부탁.
 - 2026-10-20 [클라우드] [배포확인요청] 로고 S3 전체 적용(#124: public 아이콘·favicon.ico·manifest maskable·OG·JSON-LD·PWA 스플래시·푸시 배지·랜딩 헤더/푸터 록업·로그인 다크 록업) + 히어로 배경 콜라주(#119) + Higgsfield USD 단가·표시 단위(#120). 운영 확인: 파비콘·OG(카톡 미리보기)·랜딩·로그인. 메일 서명·명함은 회사 로고만 써서 워크인 로고 없음(교체 대상 아님). 모션 mp4 는 팩에 추가되면 로그인/스플래시에 넣겠습니다.
+- 2026-10-25 [클라우드] [배포확인요청] 148차 — #592 ② 휴대폰 캘린더 주 보기 밀도(명세 §2): 시간 칸 주 40/3일 48/일 64 → 한 화면 약 15시간, 블록 11px 중간 굵기·줄 수 블록 높이만큼, 좁은 블록 앞머리 [태그] 떼기(부재 종류 유지), 종일 줄 기본 켬(2줄 + '+n개' → 그날 목록), 미팅 단추 둥근 48px·아래로 밀면 숨김, 휴대폰 머리줄 한 줄(월▾·보기 전환·‹›·오늘·+). 견적서 공급자 긴 주소 두 줄(로컬 15:45). 마이그레이션 없음(200 그대로). 로컬 요청: ① 대표 휴대폰(390~412px) 주 보기 — 08~22시가 한 화면에, [다짐 문의] 업무가 내용부터 2줄로, 종일 칩이 날짜 머리 아래 바로, + 단추가 칸을 안 가리고 아래로 밀면 숨는지(명세 §3 2~5) ② 3일·일 보기 칸 높이·일 보기는 제목 그대로 ③ 견적서 미리보기(hilink) 공급자 주소 두 줄 ④ 명세 §3 1·6(구글 11건·중복 정리)은 가져오기를 대표가 취소(#604)해 하지 않음 — 워크인에 직접 넣은 일정만 보임.
 - 2026-10-25 [클라우드] [배포확인요청] 147차 — #263(로컬 14:40 긴급) PDF 한글 깨짐 고침: 업무 첨부 [고치기] 써넣기·전자계약 1차·2차 완료본(본문·칸 값·감사 추적)·견적서 PDF 가 한글 글꼴을 TrueType 으로 바꾼 자산을 씀(원인·시험은 TEST_REPORT 147차). 마이그레이션 없음(200 그대로). 로컬 요청: ① 운영에서 시험 업무 PDF [고치기] → 한글 글자 넣고 저장 → 새 버전을 크롬 PDF 보기·워크인 미리보기(pdf.js)·Adobe 세 곳에서 열어 한글이 보이는지(146차 ② 아주 긴 글 = 빨간 표시·저장 막기도 같이) ② 전자계약 시험 1건(1차 서식 또는 2차 PDF) 서명 완료 → 완료본 PDF 의 본문·칸 값·감사 추적 쪽 한글 ③ 견적서 시험 1건 PDF ④ 운영에 이미 있는 PDF 개수 — 견적서(10/19~, 특히 '보냄')·전자계약 완료본(10/21~)·업무 첨부 PDF 써넣기 버전(10/25~). 이것들은 깨진 채 저장돼 저절로 안 고쳐짐: 업무 첨부는 v1 에서 다시 써넣으면 되고, 견적서·계약 완료본 다시 만들기는 개수 보고 대표 결정(계약은 기존 파일 보관 + 감사 기록) 뒤.
 - 2026-10-25 [클라우드] [배포확인요청] 146차 — #258 업무 첨부 [고치기] 두 가지: ① PDF 글자 칸보다 긴 글이 잘리던 것 → 칸 폭에서 줄을 바꾸고 칸 높이에 맞게 글자를 줄여 글 전부를 찍음(가장 작은 글자로도 안 들어가면 칸이 빨갛게 되고 저장을 막음 — 칸을 키우면 됨). 전자계약 2차 글자·날짜 칸 값도 같은 식으로 자르지 않음. ② 사진 편집기 크기 표시가 한 단계 늦던 것 → 돌리자마자 바뀐 크기. 마이그레이션 없음(200 그대로). 로컬 요청: ① 운영에서 시험 업무 PDF 첨부 [고치기] → 글자 칸에 긴 문장(두세 줄 길이) → 칸 안에서 줄이 바뀌고 글자가 줄어 보이는지 → 저장한 v2 를 열어 같은 칸 안에 글 전부가 찍혔는지 ② 아주 긴 글이면 빨간 표시·저장 막힘, 칸을 키우면 저장되는지 ③ 사진 [고치기]에서 오른쪽 돌리기 한 번에 아래 크기 표시가 바로 가로·세로 바뀌는지.
 - 2026-10-25 [클라우드] [배포확인요청] 145차 — #235 ⓑ 블로그 네이버 형식 + 로컬 10/25 11:15 사진 쓰임 규칙 나누기. 자동 제작 블로그 원고를 표준 모델 이상으로(빠른 모델 회사도 블로그만, 비용 줄 표시) 메인 키워드 자리·횟수·서브 키워드 소제목·검색한 사람 한 명·한 문장 한 줄·인용구 2~4개·사진 8~15장(자료실 실사 후보에서 장면 순서로 '[사진 n] 설명' 줄 + 그 사진을 표지 다음 순서로 붙임)으로 쓰고, 1,800자 미만·글자만 500자 넘게 이어지면 올리기 전 검사에서 막음. 사진 판정은 4가지(AI 판정대로 / 글자 없음 — 바탕으로 씀 / 글자 있음 — 바탕에만 안 씀 / 쓰지 않음 — 바탕·본문 모두), 글자 많은 실사는 본문 후보로 돌아옴. 마이그레이션 없음(200 그대로). 로컬 요청: ① 다음 블로그 자동 제작분(/s/marketing/approvals)에서 본문 '[사진 n] …' 줄이 장면 순서로 들어갔는지·붙은 사진이 '표지·사진 1·사진 2…' 순서로 같은 사진인지·분량·인용구·메인 키워드 자리, 글 품질 '블로그 형식' 줄 숫자 ② 게시 도우미 [본문 복사] → 네이버 블로그 글쓰기에 붙였을 때 소제목 굵게·인용 상자·문단이 유지되는지(사진 자리 회색 줄은 사진 넣고 지우거나 설명으로) ③ /s/marketing/automation 글 모델에 '네이버 블로그 …' 줄(모델·1건 약 n원) ④ 11:15 의 두 장(c3e0f1ff·ed36508b)이 사진 목록에서 '블로그 본문 가능'(바탕은 여전히 아님)으로 바뀌었는지 ⑤ 브랜드 키트 사실 카드 '블로그 검색 키워드'(지역+업종, 예: 지역 이름 + 업종 낱말)를 브랜드마다 채워 주면 원고가 그 중 하나를 메인 키워드로 씀.
